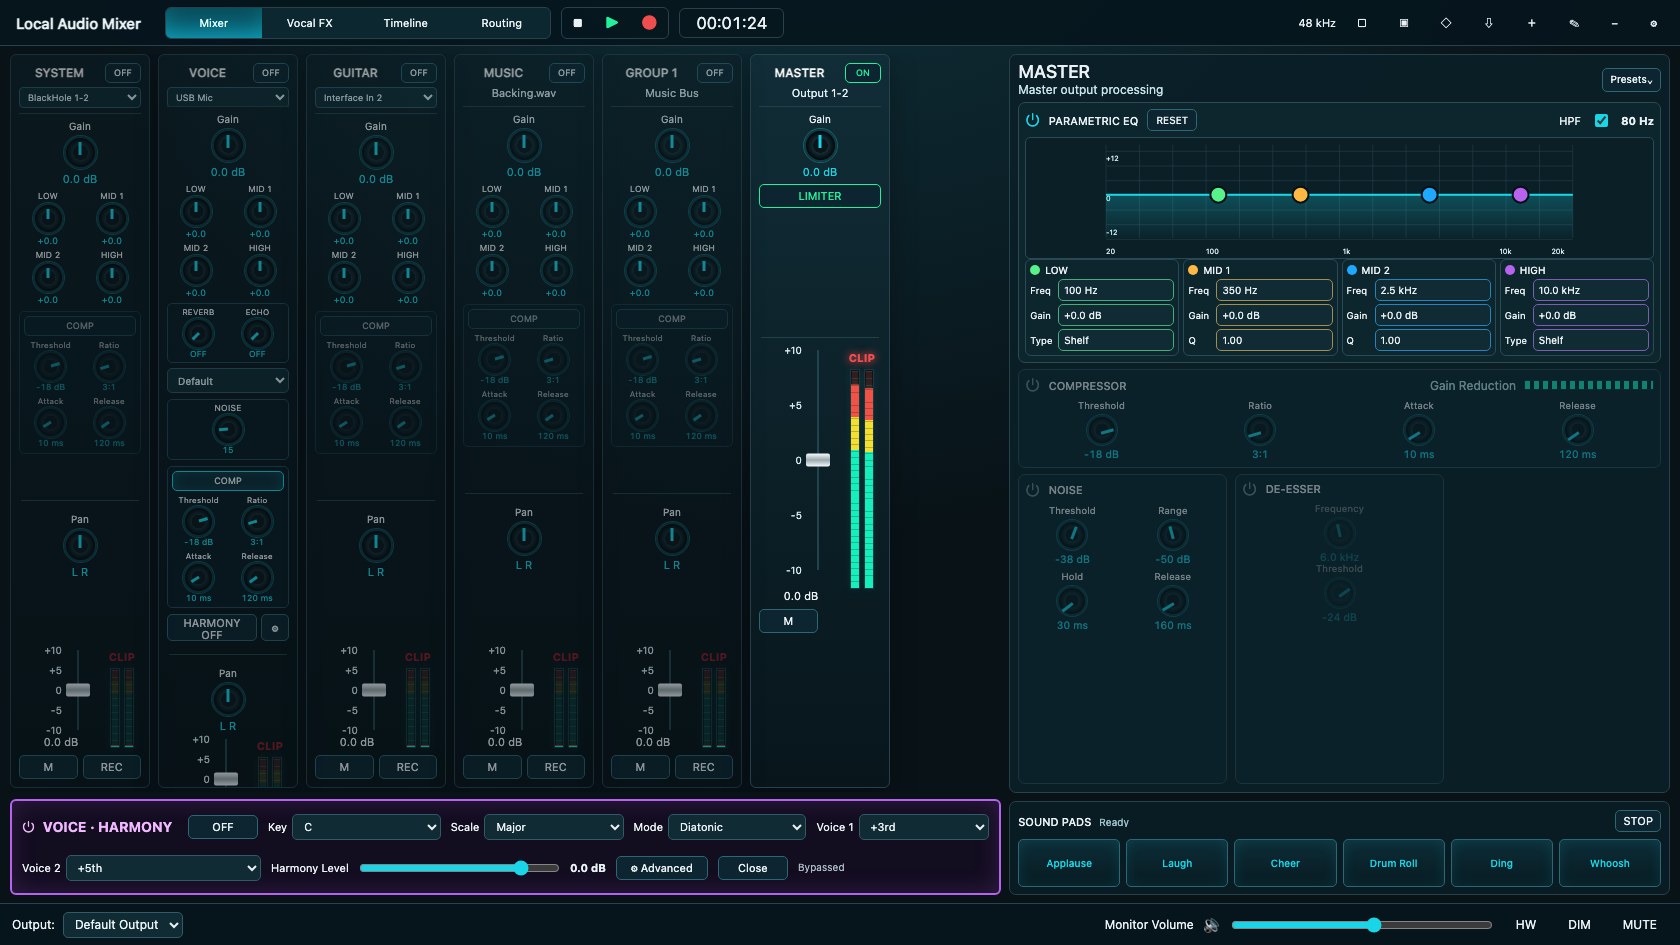
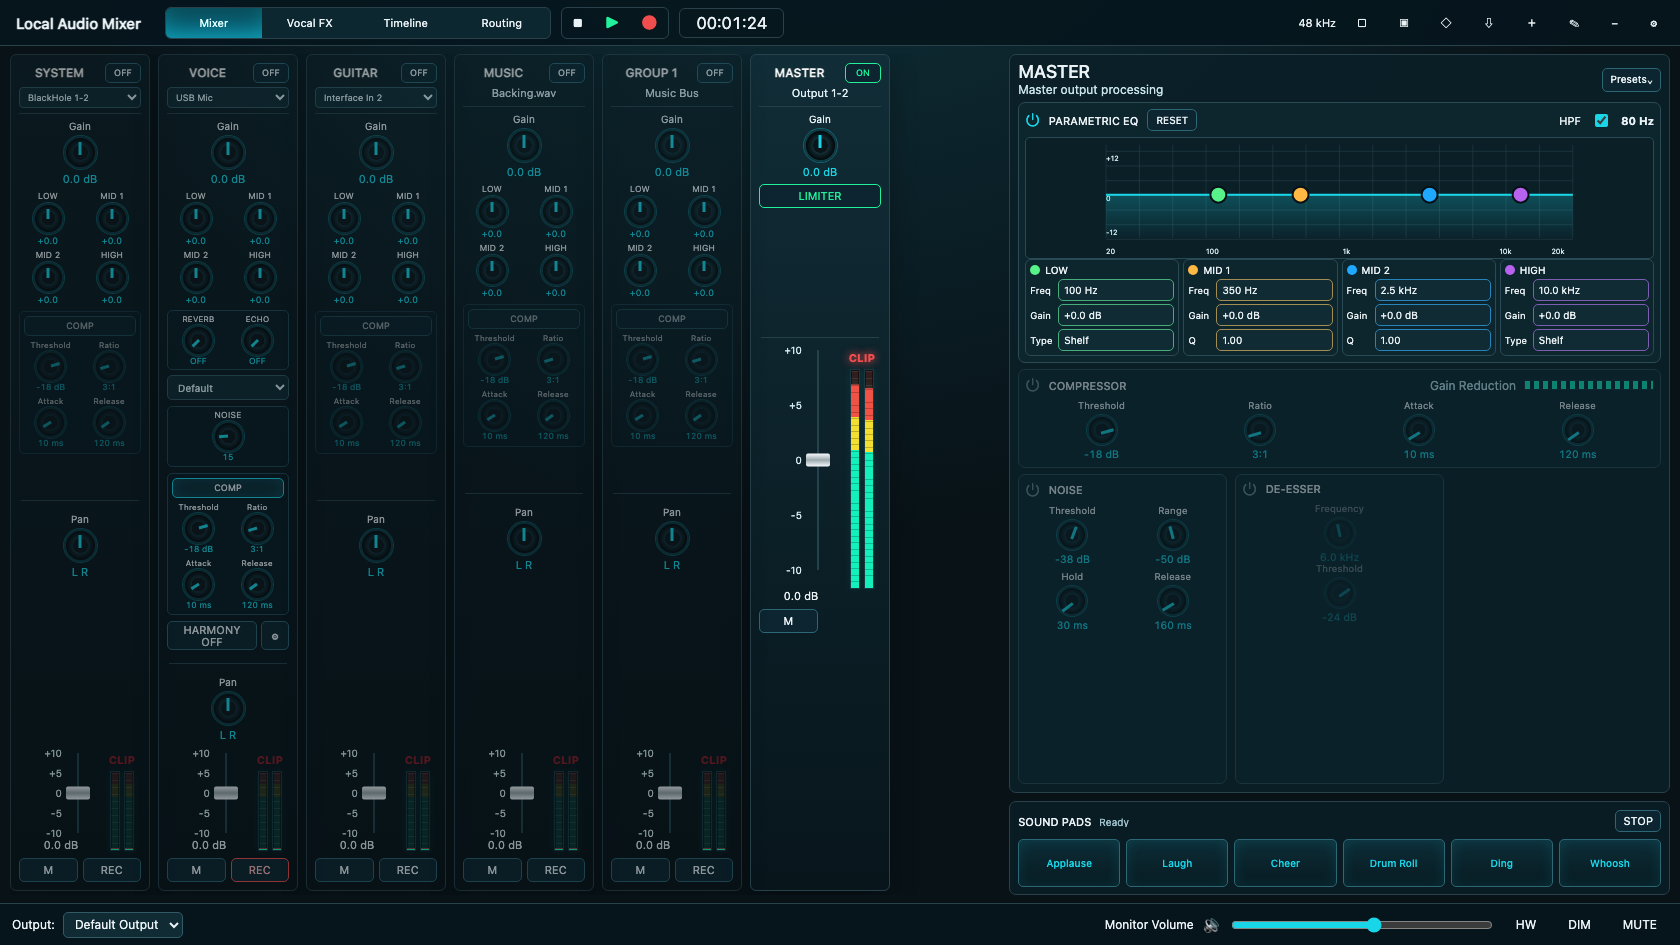
Move harmony controls to modal

diff --git a/apps/desktop/src/styles/app.css b/apps/desktop/src/styles/app.css
@@ -63,7 +63,7 @@
 .fx-edit-popover p { margin: 0; color: #bde7ef; font-size: 10px; line-height: 1.2; }
 
 .workspace { display: grid; grid-template-columns: minmax(650px, 60fr) minmax(390px, 40fr); gap: 8px; padding: 8px 10px; min-height: 0; min-width: 0; }
-.left-zone { min-width: 0; min-height: 0; display: grid; grid-template-rows: minmax(0, 1fr) 96px; gap: 7px; overflow: hidden; }
+.left-zone { min-width: 0; min-height: 0; display: grid; grid-template-rows: minmax(0, 1fr); gap: 7px; overflow: hidden; }
 .right-zone { min-width: 0; min-height: 0; display: grid; grid-template-rows: minmax(0, 1fr) 94px; gap: 8px; }
 .channel-bank { display: flex; gap: 8px; min-width: 0; min-height: 0; overflow-x: auto; overflow-y: hidden; padding-bottom: 4px; }
 .channel-strip { flex: 0 0 140px; height: 100%; min-height: 0; display: flex; flex-direction: column; align-items: stretch; gap: 6px; padding: 8px; border: 1px solid var(--border); border-radius: 6px; background: linear-gradient(180deg, rgba(17, 45, 55, 0.96), rgba(8, 22, 28, 0.96)); box-shadow: var(--shadow); overflow: hidden; }
@@ -213,7 +213,7 @@
 .clip-indicator { color: #861b25; border: 0; background: transparent; font-size: 11px; font-weight: 800; }
 .clip-indicator.is-active { color: var(--danger); text-shadow: 0 0 8px var(--danger); }
 
-.harmony-panel { display: grid; grid-template-rows: 1fr 1fr; gap: 6px; padding: 8px 10px; border: 2px solid var(--violet); border-radius: 6px; background: rgba(24, 12, 36, 0.76); box-shadow: inset 0 0 24px rgba(184, 98, 240, 0.18); overflow: hidden; }
+.harmony-panel { width: min(980px, calc(100vw - 48px)); display: grid; grid-template-rows: 1fr 1fr; gap: 6px; padding: 10px; border: 2px solid var(--violet); border-radius: 7px; background: rgba(24, 12, 36, 0.96); box-shadow: 0 18px 60px rgba(0, 0, 0, 0.5), inset 0 0 24px rgba(184, 98, 240, 0.18); overflow: hidden; }
 .harmony-row { display: grid; align-items: center; gap: 10px; min-width: 0; }
 .harmony-main-row { grid-template-columns: 156px 70px repeat(4, minmax(88px, 1fr)); }
 .harmony-secondary-row { grid-template-columns: minmax(88px, 1fr) minmax(260px, 1.4fr) 92px 70px minmax(120px, 0.8fr); }
@@ -363,7 +363,7 @@
   .program-picker { width: 205px; }
   .fx-return { width: 260px; grid-template-columns: 52px minmax(72px, 1fr) 68px; }
   .workspace { grid-template-columns: minmax(620px, 1fr) 438px; padding: 8px 12px; }
-  .left-zone { grid-template-rows: minmax(0, 1fr) 94px; gap: 6px; }
+  .left-zone { grid-template-rows: minmax(0, 1fr); gap: 6px; }
   .right-zone { grid-template-rows: minmax(0, 1fr) 86px; gap: 6px; }
   .channel-strip { flex-basis: 140px; gap: 4px; padding: 7px; font-size: 10px; }
   .channel-strip header { min-height: 40px; padding-bottom: 3px; }
@@ -392,7 +392,7 @@
   .channel-strip.is-master .fader-scale,
   .channel-strip.is-master .fader-track,
   .channel-strip.is-master .level-meter.vertical span { height: clamp(150px, 22vh, 188px); min-height: 0; }
-  .harmony-panel { overflow: hidden; }
+  .harmony-panel { width: min(760px, calc(100vw - 32px)); overflow: hidden; }
   .harmony-main-row { grid-template-columns: 132px 56px 70px 90px 74px 84px; }
   .harmony-secondary-row { grid-template-columns: 82px minmax(180px, 1fr) 74px 58px; }
   .harmony-panel p { display: none; }

diff --git a/apps/desktop/src/features/mixer/MixerPage.tsx b/apps/desktop/src/features/mixer/MixerPage.tsx
@@ -32,7 +32,7 @@ export function MixerPage() {
   const [hardwareOpen, setHardwareOpen] = useState(false);
   const [mediaImportOpen, setMediaImportOpen] = useState(false);
   const [vocalFxOpen, setVocalFxOpen] = useState(false);
-  const [harmonyOpen, setHarmonyOpen] = useState(true);
+  const [harmonyOpen, setHarmonyOpen] = useState(false);
   const [devices, setDevices] = useState<HardwareDevice[]>([]);
   const [outputUid, setOutputUid] = useState("");
   const [transportState, setTransportState] = useState("stopped");
@@ -521,14 +521,6 @@ export function MixerPage() {
               setHarmonyOpen(true);
             }}
           />
-          {harmonyOpen ? (
-            <HarmonyQuickPanel
-              harmony={snapshot.harmony}
-              onToggle={(enabled) => void setHarmonyEnabled(enabled)}
-              onChange={(field, value) => void configureHarmony(field, value)}
-              onClose={() => setHarmonyOpen(false)}
-            />
-          ) : null}
         </div>
         <div className="right-zone">
           <ChannelProcessingPanel
@@ -545,6 +537,16 @@ export function MixerPage() {
         </div>
       </section>
       <Footer outputUid={outputUid} outputOptions={outputOptions} onOutput={changeOutput} onHardware={() => setHardwareOpen(true)} />
+      {harmonyOpen ? (
+        <div className="modal-backdrop">
+          <HarmonyQuickPanel
+            harmony={snapshot.harmony}
+            onToggle={(enabled) => void setHarmonyEnabled(enabled)}
+            onChange={(field, value) => void configureHarmony(field, value)}
+            onClose={() => setHarmonyOpen(false)}
+          />
+        </div>
+      ) : null}
       <HardwareMonitorPanel open={hardwareOpen} onClose={() => setHardwareOpen(false)} />
       <MediaImportPanel open={mediaImportOpen} onClose={() => setMediaImportOpen(false)} />
       <VocalFxPanel

diff --git a/tests/ui/visual.visual.ts b/tests/ui/visual.visual.ts
@@ -16,7 +16,7 @@ for (const viewport of viewports) {
     await expect(page.locator(".channel-strip").filter({ hasText: "MASTER" }).getByRole("button", { name: "ON", exact: true })).toBeVisible();
     await expect(page.getByText("FX A")).toHaveCount(0);
     await expect(page.getByText("FX B")).toHaveCount(0);
-    await expect(page.getByText("VOICE · HARMONY")).toBeVisible();
+    await expect(page.getByRole("dialog", { name: "Harmony settings" })).toHaveCount(0);
     await expect(page.locator(".processing-panel").getByRole("heading", { name: "MASTER" })).toBeVisible();
     await expect(page.locator(".processing-panel").getByText("Master output processing")).toBeVisible();
     await expect(page.getByText("PARAMETRIC EQ")).toBeVisible();
@@ -65,6 +65,11 @@ test("preview controls mutate visible mixer state", async ({ page }) => {
   await expect(voiceStrip.getByLabel("Voice preset")).toHaveValue("default");
   await voiceStrip.getByLabel("Voice preset").selectOption("voice-12-robot");
   await expect(voiceStrip.getByLabel("Voice preset")).toHaveValue("voice-12-robot");
+  await voiceStrip.getByLabel("Harmony settings").click();
+  await expect(page.getByRole("dialog", { name: "Harmony settings" })).toBeVisible();
+  await expect(page.getByText("VOICE · HARMONY")).toBeVisible();
+  await page.getByRole("button", { name: "Close" }).click();
+  await expect(page.getByRole("dialog", { name: "Harmony settings" })).toHaveCount(0);
 
   await expect(page.getByLabel("FX program")).toHaveCount(0);
   await expect(page.locator(".compact-fx-row")).toHaveCount(0);

diff --git a/apps/desktop/src/features/harmony/components/HarmonyQuickPanel.tsx b/apps/desktop/src/features/harmony/components/HarmonyQuickPanel.tsx
@@ -17,7 +17,7 @@ export function HarmonyQuickPanel({ harmony, onToggle, onChange, onClose }: Harm
   const status = harmony.pending ? "Pending" : harmony.error || (harmony.effectiveEnabled ? "Active" : "Bypassed");
 
   return (
-    <section className="harmony-panel">
+    <section className="harmony-panel" role="dialog" aria-label="Harmony settings">
       <div className="harmony-row harmony-main-row">
         <div className="harmony-title"><span>⏻</span><strong>VOICE · HARMONY</strong></div>
         <Button tone="violet" active={harmony.enabled} disabled={harmony.pending} onClick={() => onToggle(!harmony.enabled)}>{harmony.enabled ? "ON" : "OFF"}</Button>

diff --git a/docs/progress.md b/docs/progress.md
@@ -4402,3 +4402,31 @@ Validation:
 
 Known limitations:
 - Manual hardware confirmation that toggling Default during live mic monitoring stays audibly dry is `NOT_RUN`.
+
+### Phase19 UX Checkpoint — Move Harmony Controls To Modal
+
+Changed files:
+- `apps/desktop/src/features/mixer/MixerPage.tsx`: starts Harmony settings closed and renders `HarmonyQuickPanel` inside a modal backdrop when the VOICE gear/settings button is clicked.
+- `apps/desktop/src/features/harmony/components/HarmonyQuickPanel.tsx`: marks the harmony surface as a dialog named `Harmony settings`.
+- `apps/desktop/src/styles/app.css`: removes the reserved bottom tray row from the left mixer area and sizes the harmony surface as a centered modal.
+- `tests/ui/visual.visual.ts`: updates layout expectations so the harmony panel is absent on startup and verifies opening/closing the modal from the VOICE settings icon.
+- `docs/reports/ui/desktop-1680x945.png`, `docs/reports/ui/minimum-1280x800.png`: refreshed visual baselines without the inline harmony tray.
+- `docs/progress.md`: recorded verification evidence.
+
+Implemented behavior:
+- The bottom harmony panel no longer occupies space under the mixer.
+- Clicking the icon beside `HARMONY ON/OFF` opens Harmony as a centered modal.
+- Closing the modal returns to the full mixer view while preserving the existing Harmony ON/OFF and parameter wiring.
+
+Validation:
+- command: `npm run typecheck`
+- exit/result: `0`; TypeScript passed.
+- command: `npm run test:visual`
+- exit/result: `0`; Playwright visual suite 6/6 passed and updated screenshots.
+- command: `npm run check:file-size`
+- exit/result: `0`; file-size guard passed with warning `MixerPage.tsx 804`, still under the 1,000-line limit.
+- command: `npm run verify`
+- exit/result: `0`; plan, file-size, architecture, typecheck, Vitest 54/54, native CTest 43/43, engine self-test, device enumeration smoke, protocol smoke, UI build, and Electron main/preload build passed.
+
+Known limitations:
+- Manual hardware confirmation of Harmony parameter changes while live monitoring is `NOT_RUN`; this change only relocates the UI surface.
